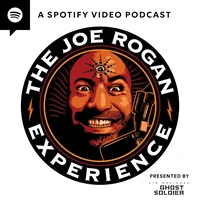
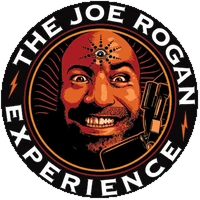
Tidy the JRE episode list

diff --git a/css/styles.css b/css/styles.css
@@ -2732,9 +2732,7 @@ body.has-hero .site-header:not(.is-scrolled) .explore-panel {
     grid-template-columns: 5.5rem minmax(0, 1fr);
     gap: 0.95rem 1.1rem;
   }
-  .episode-card { padding: 1.2rem 0; }
-  .podcast-search { flex: 1 1 100%; }
-  .podcast-search input { max-width: none; }
+  .episode-card { padding: 1.65rem 0; }
 }
 
 .sr-only {
@@ -2798,17 +2796,19 @@ body.has-hero .site-header:not(.is-scrolled) .explore-panel {
   line-height: 1;
 }
 .show-card-art:has(img) {
-  background: #f4f1ea;
-}
-:root[data-theme="dark"] .show-card-art:has(img) {
-  background: #1c1916;
+  background: transparent;
+  box-shadow: none;
 }
 .show-card-art img {
   display: block;
   width: 100%;
   height: auto;
   aspect-ratio: 1;
-  object-fit: cover;
+  object-fit: contain;
+  filter: drop-shadow(0 8px 16px rgba(23, 23, 23, 0.22));
+}
+:root[data-theme="dark"] .show-card-art img {
+  filter: drop-shadow(0 8px 18px rgba(0, 0, 0, 0.5));
 }
 
 .show-intro {
@@ -2820,27 +2820,18 @@ body.has-hero .site-header:not(.is-scrolled) .explore-panel {
 }
 .show-header-art {
   width: 100%;
-  border-radius: 2px;
-  overflow: hidden;
-  background: #f4f1ea;
-  box-shadow:
-    0 0 0 1px rgba(23, 23, 23, 0.14),
-    0 1px 2px rgba(23, 23, 23, 0.14),
-    0 12px 24px rgba(23, 23, 23, 0.16);
-}
-:root[data-theme="dark"] .show-header-art {
-  background: #1c1916;
-  box-shadow:
-    0 0 0 1px rgba(255, 255, 255, 0.12),
-    0 1px 2px rgba(0, 0, 0, 0.4),
-    0 14px 28px rgba(0, 0, 0, 0.45);
+  background: transparent;
 }
 .show-header-art img {
   display: block;
   width: 100%;
   height: auto;
   aspect-ratio: 1;
-  object-fit: cover;
+  object-fit: contain;
+  filter: drop-shadow(0 8px 16px rgba(23, 23, 23, 0.22));
+}
+:root[data-theme="dark"] .show-header-art img {
+  filter: drop-shadow(0 8px 18px rgba(0, 0, 0, 0.5));
 }
 .show-intro-copy { min-width: 0; }
 
@@ -2866,54 +2857,6 @@ body.has-hero .site-header:not(.is-scrolled) .explore-panel {
   }
 }
 
-.podcast-search {
-  display: flex;
-  align-items: center;
-  gap: 0.7rem;
-  min-width: 0;
-  flex: 1 1 14rem;
-}
-
-.podcast-search-label {
-  flex: none;
-  font-family: var(--sans);
-  font-size: 0.68rem;
-  font-weight: 500;
-  letter-spacing: 0.14em;
-  text-transform: uppercase;
-  color: var(--muted);
-}
-
-.podcast-search input {
-  width: 100%;
-  min-width: 0;
-  max-width: 22rem;
-  margin: 0;
-  padding: 0.4rem 0;
-  border: 0;
-  border-bottom: 1px solid var(--line-strong);
-  border-radius: 0;
-  background: transparent;
-  color: var(--ink);
-  font-family: var(--sans);
-  font-size: 0.95rem;
-  line-height: 1.4;
-}
-
-.podcast-search input::-webkit-search-decoration,
-.podcast-search input::-webkit-search-cancel-button {
-  -webkit-appearance: none;
-}
-
-.podcast-search input::placeholder {
-  color: var(--muted);
-}
-
-.podcast-search input:focus-visible {
-  outline: none;
-  border-bottom-color: var(--gold);
-}
-
 .episode-list {
   list-style: none;
   margin: 1.1rem 0 0;
@@ -2923,24 +2866,24 @@ body.has-hero .site-header:not(.is-scrolled) .explore-panel {
 
 .episode-card {
   min-width: 0;
-  padding: 1.45rem 0;
+  padding: 2rem 0;
   border-bottom: 1px solid var(--line);
 }
 
 .episode-title {
   font-family: var(--serif);
   font-weight: 500;
-  font-size: clamp(1.2rem, 2vw, 1.55rem);
+  font-size: clamp(1.1rem, 1.85vw, 1.42rem);
   letter-spacing: -0.03em;
   line-height: 1.25;
   overflow-wrap: break-word;
 }
 
 .episode-note {
-  margin-top: 0.7rem;
+  margin-top: 0.8rem;
   font-family: var(--serif);
   font-style: italic;
-  font-size: 1.05rem;
+  font-size: 1.14rem;
   line-height: 1.65;
   color: var(--ink-soft);
   overflow-wrap: break-word;
@@ -2957,10 +2900,3 @@ body.has-hero .site-header:not(.is-scrolled) .explore-panel {
   }
 }
 
-.podcast-empty {
-  margin-top: 1.4rem;
-  font-family: var(--serif);
-  font-style: italic;
-  color: var(--muted);
-  font-size: 1.02rem;
-}

diff --git a/js/podcasts.js b/js/podcasts.js
@@ -99,50 +99,24 @@
     var show = findShow(slug);
     if (show) renderShowHeader(show);
 
-    var search = document.getElementById("podcast-search");
     var countEl = document.getElementById("podcast-count");
-    var emptyEl = document.getElementById("podcast-empty");
     var episodes = show && Array.isArray(show.episodes) ? show.episodes : [];
 
-    function matches(episode, query) {
-      if (!query) return true;
-      var hay = ((episode.title || "") + " " + (episode.note || "")).toLowerCase();
-      return hay.indexOf(query) !== -1;
+    list.innerHTML = episodes.map(function (episode) {
+      var note = episode.note
+        ? '<p class="episode-note">' + esc(episode.note) + "</p>"
+        : "";
+      return (
+        '<li class="episode-card">' +
+        '<h2 class="episode-title">' + esc(episode.title) + "</h2>" +
+        note +
+        "</li>"
+      );
+    }).join("");
+
+    if (countEl) {
+      countEl.textContent = episodes.length + " " + noun(episodes.length);
     }
-
-    function render() {
-      var query = search ? search.value.trim().toLowerCase() : "";
-      var visible = episodes.filter(function (episode) {
-        return matches(episode, query);
-      });
-
-      list.innerHTML = visible.map(function (episode) {
-        var note = episode.note
-          ? '<p class="episode-note">' + esc(episode.note) + "</p>"
-          : "";
-        return (
-          '<li class="episode-card">' +
-          '<h2 class="episode-title">' + esc(episode.title) + "</h2>" +
-          note +
-          "</li>"
-        );
-      }).join("");
-
-      if (countEl) {
-        if (query) {
-          countEl.textContent = visible.length + " of " + episodes.length + " " + noun(episodes.length);
-        } else {
-          countEl.textContent = episodes.length + " " + noun(episodes.length);
-        }
-      }
-      if (emptyEl) {
-        if (visible.length) emptyEl.setAttribute("hidden", "");
-        else emptyEl.removeAttribute("hidden");
-      }
-    }
-
-    if (search) search.addEventListener("input", render);
-    render();
   }
 
   renderHub();

diff --git a/data/podcasts.js b/data/podcasts.js
@@ -11,9 +11,8 @@
  *   3. Add the show URL to sitemap.xml.
  * The hub lists every show in this array automatically.
  *
- * The Joe Rogan Experience cover is the official Apple Podcasts artwork:
- * https://podcasts.apple.com/us/podcast/the-joe-rogan-experience/id360084272
- * https://is1-ssl.mzstatic.com/image/thumb/Podcasts211/v4/d8/97/bf/d897bfdd-73ea-6a4e-5c3e-02ab30707f2b/mza_8607972238001778397.jpg/2000x2000bb.jpg
+ * The Joe Rogan Experience mark was supplied by Liam (25 November 2026):
+ * a circular logo with white outlined lettering on a transparent field.
  */
 window.PODCASTS = [
   {
@@ -23,8 +22,8 @@ window.PODCASTS = [
     "art": "joe-rogan-experience",
     "artWidth": 400,
     "artHeight": 400,
-    "artAlt": "Official cover art for The Joe Rogan Experience.",
-    "artSource": "https://is1-ssl.mzstatic.com/image/thumb/Podcasts211/v4/d8/97/bf/d897bfdd-73ea-6a4e-5c3e-02ab30707f2b/mza_8607972238001778397.jpg/2000x2000bb.jpg",
+    "artAlt": "The Joe Rogan Experience logo.",
+    "artSource": "Supplied by Liam, 25 November 2026.",
     "episodes": [
       {
         "title": "#1459 - Tom O’Neill",

diff --git a/podcasts/joe-rogan-experience/index.html b/podcasts/joe-rogan-experience/index.html
@@ -147,10 +147,6 @@
       </header>
 
       <div class="library-toolbar">
-        <div class="podcast-search">
-          <label class="podcast-search-label" for="podcast-search">Search</label>
-          <input type="search" id="podcast-search" placeholder="Title or note" autocomplete="off" spellcheck="false">
-        </div>
         <p class="library-count" id="podcast-count">70 episodes</p>
       </div>
 
@@ -158,8 +154,7 @@
         <p class="library-note">This catalogue is arranged by script. Please enable JavaScript, or write to the estate.</p>
       </noscript>
 
-      <ol class="episode-list" id="podcast-episodes" data-show="joe-rogan-experience"></ol>
-      <p class="podcast-empty" id="podcast-empty" hidden>No episodes match that search.</p>
+      <ul class="episode-list" id="podcast-episodes" data-show="joe-rogan-experience"></ul>
     </article>
   </main>
 
